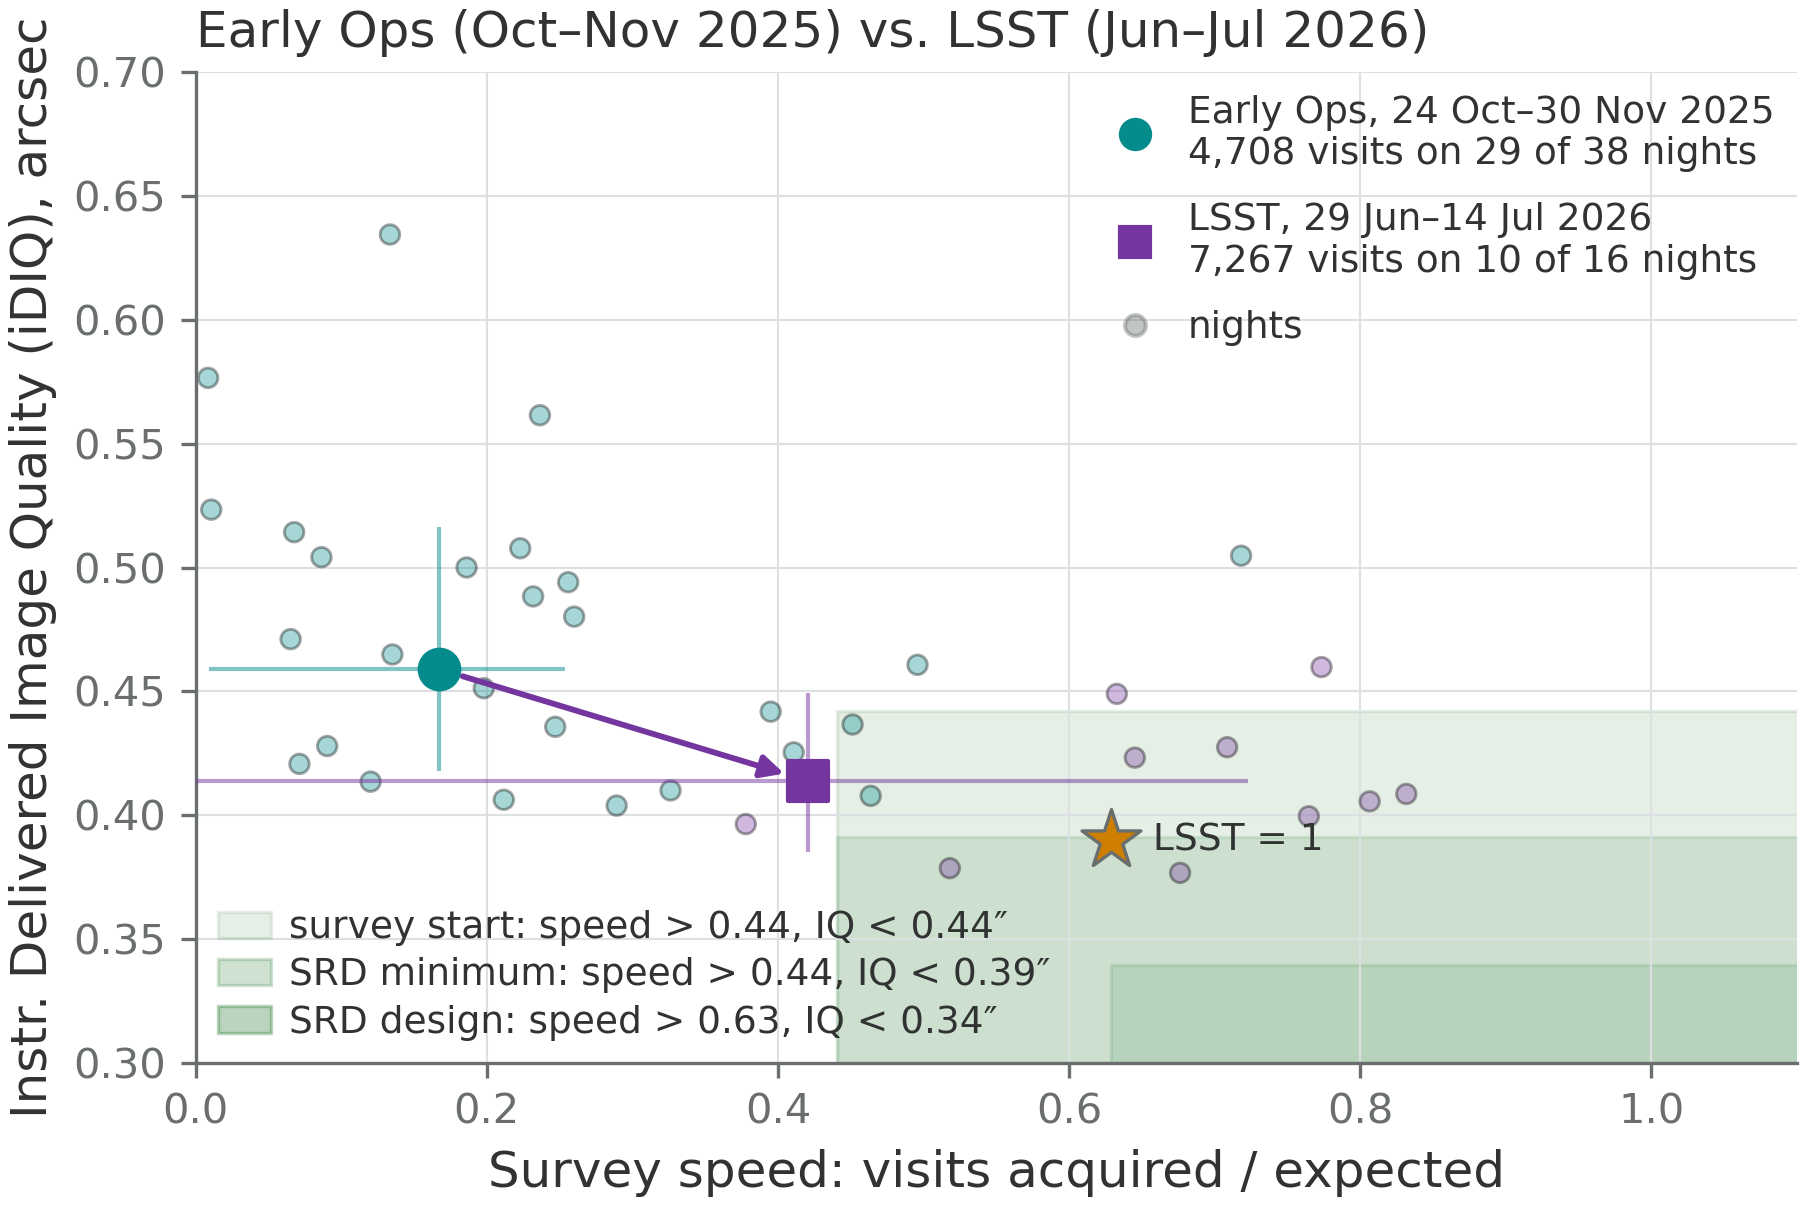
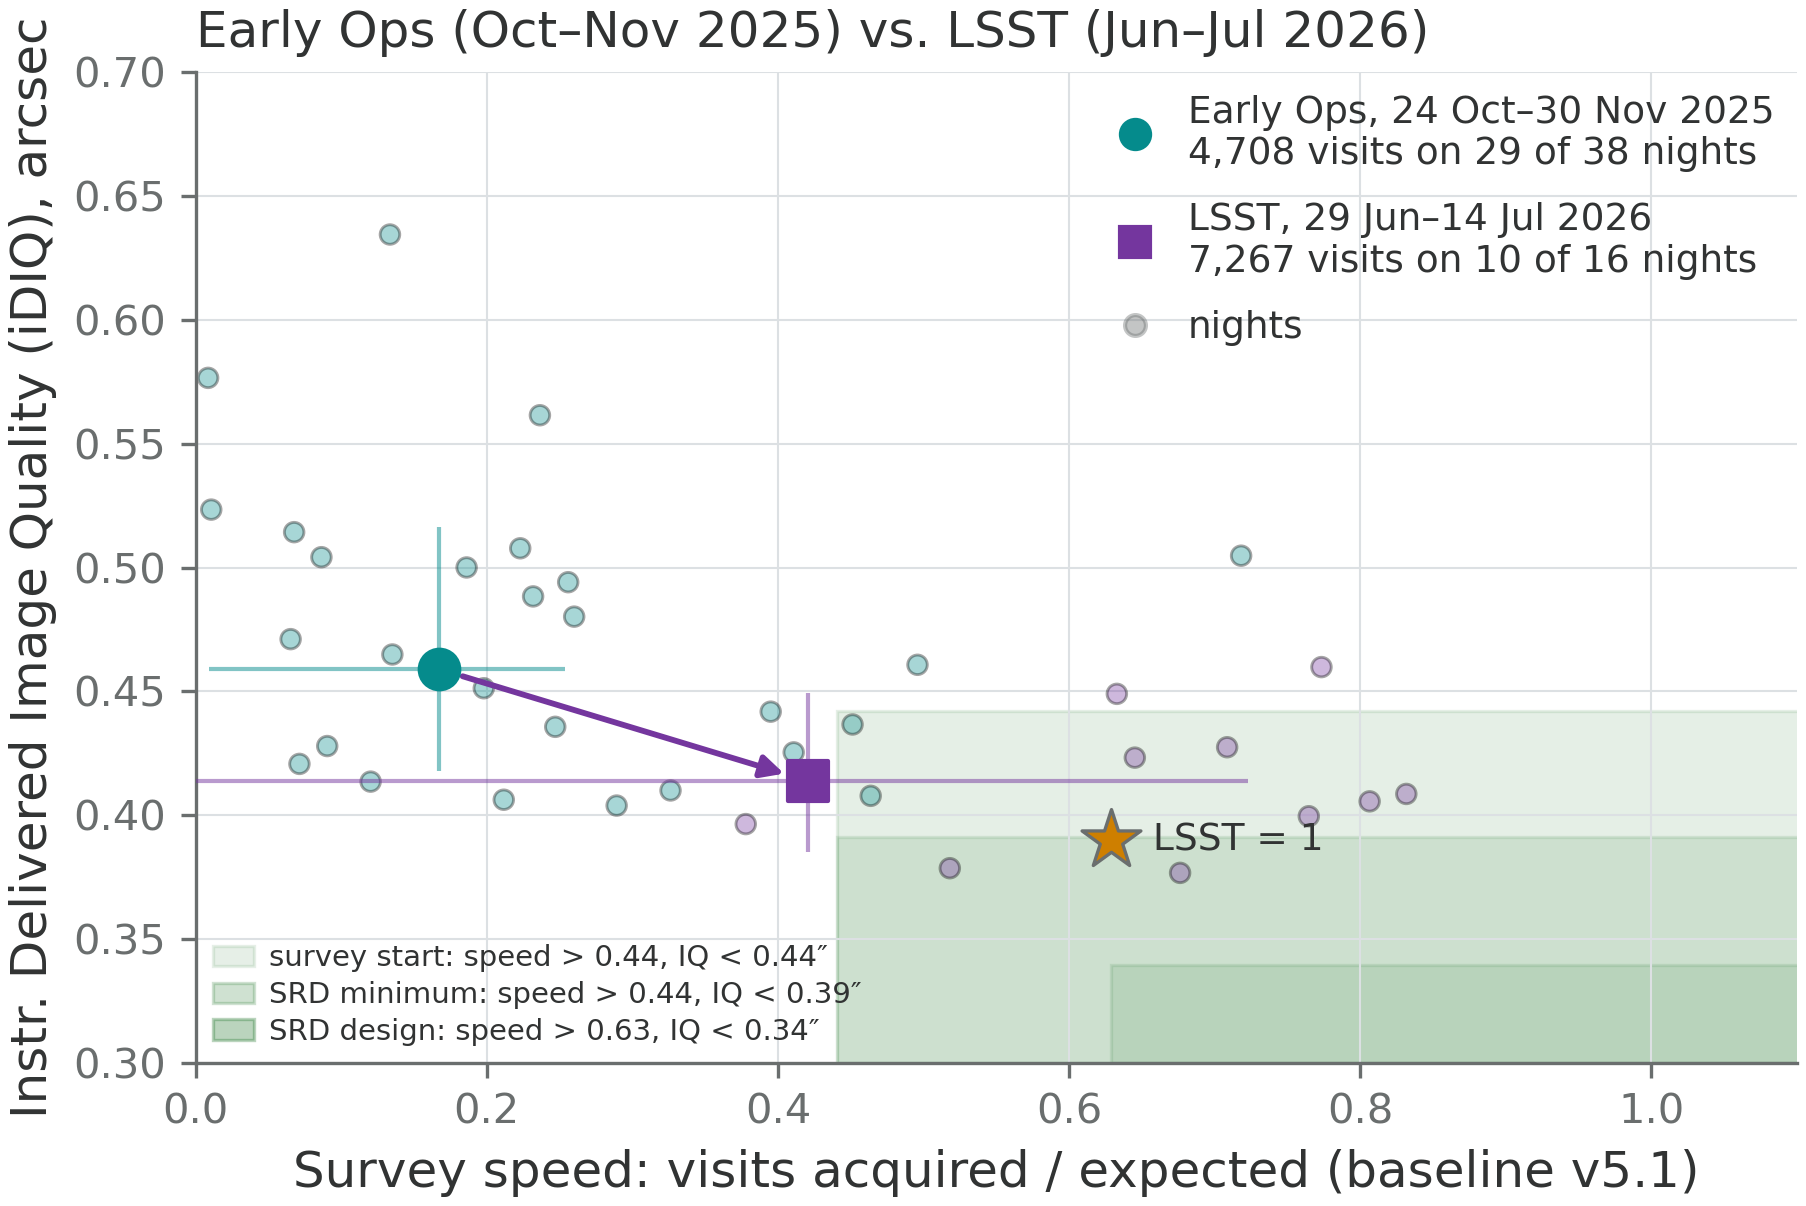
observatory_high_level_performance: name the baseline on the x axis, smaller box legend
The static x label now reads "(baseline v5.1)" (ref.BASELINE_LABEL) since the
reference is moving to v5.3.4; the requirement-box legend drops 2 pt. PNGs
regenerated.

Generated with AI

Changed region(s): [[0.093, 0.7363, 0.5891, 0.8897], [0.155, 0.9511, 0.9302, 1.0]]

diff --git a/observatory_high_level_performance/ohlp/static.py b/observatory_high_level_performance/ohlp/static.py
@@ -185,7 +185,7 @@ def build_static_figure(
                 handles=box_handles,
                 loc=box_legend_loc,
                 frameon=False,
-                fontsize=text_size,
+                fontsize=text_size - 2,
                 labelcolor=COLORS["ink"],
                 handlelength=1.4,
                 handletextpad=0.5,
@@ -322,7 +322,9 @@ def build_static_figure(
         # Axes --------------------------------------------------------------- #
         ax.set_xlim(0, 1.1)
         ax.set_ylim(yref["ymin"], yref["ymax"])
-        ax.set_xlabel("Survey speed: visits acquired / expected")
+        ax.set_xlabel(
+            "Survey speed: visits acquired / expected (%s)" % ref.BASELINE_LABEL
+        )
         ax.set_ylabel(Y_LABELS_SHORT.get(iq_col, IQ_COLUMNS[iq_col]))
         if title:
             ax.set_title(title, color=COLORS["ink"], loc="left", pad=6)

diff --git a/observatory_high_level_performance/ohlp/reference.py b/observatory_high_level_performance/ohlp/reference.py
@@ -254,6 +254,11 @@ class VisitRateReference:
 
 VISIT_RATE = VisitRateReference()
 
+#: Name of the simulation behind the expected-visit estimator and the star,
+#: written on the figure because the reference is moving (v5.1 -> v5.3.4,
+#: Lynne Jones, 2026-10-12; README section 10).
+BASELINE_LABEL: str = "baseline v5.1"
+
 #: Right edge of the green region. Cosmetic; cell 15 draws it to 1.2.
 BOX_X_MAX: float = 1.2
 

diff --git a/observatory_high_level_performance/README.md b/observatory_high_level_performance/README.md
@@ -25,7 +25,7 @@ are counted, never removed (§5):
 | Version | File | Status |
 |---|---|---|
 | Interactive (Bokeh) | `04_interactive.ipynb` → `figures/speed_vs_iq_interactive_<windows|quarterly|monthly>_<min>-<max>.html` | done |
-| Static PNG (6×4 in, 12 pt labels, `TRANSPARENT` flag, optional `TITLE`, cropped to contents; requirement-box legend lower left, `box_legend_loc`) | `03_static_png.ipynb` → `figures/speed_vs_iq_static_early_ops_octnov_20251024-20251130.png` (single Early Ops summary; titled, no direct label), `figures/speed_vs_iq_static_early_ops_vs_lsst_20251024-20260714.png` (Early Ops in teal + LSST on-sky stretch in purple, default; talk version; `_white` suffix = opaque background) or `..._<windows|quarterly|monthly>_<min>-<max>.png` (direct labels per period) | done (2026-10-17) |
+| Static PNG (6×4 in, 12 pt labels, `TRANSPARENT` flag, optional `TITLE`, cropped to contents; requirement-box legend lower left at 7 pt, `box_legend_loc`; x label names the baseline, `ref.BASELINE_LABEL`) | `03_static_png.ipynb` → `figures/speed_vs_iq_static_early_ops_octnov_20251024-20251130.png` (single Early Ops summary; titled, no direct label), `figures/speed_vs_iq_static_early_ops_vs_lsst_20251024-20260714.png` (Early Ops in teal + LSST on-sky stretch in purple, default; talk version; `_white` suffix = opaque background) or `..._<windows|quarterly|monthly>_<min>-<max>.png` (direct labels per period) | done (2026-10-17) |
 | Static, talk (16:9, build frames) | `03_static_talk.ipynb` | pending |
 | Static, paper (AAS column, PDF + PNG) | `02_static_paper.ipynb` | pending |
 
